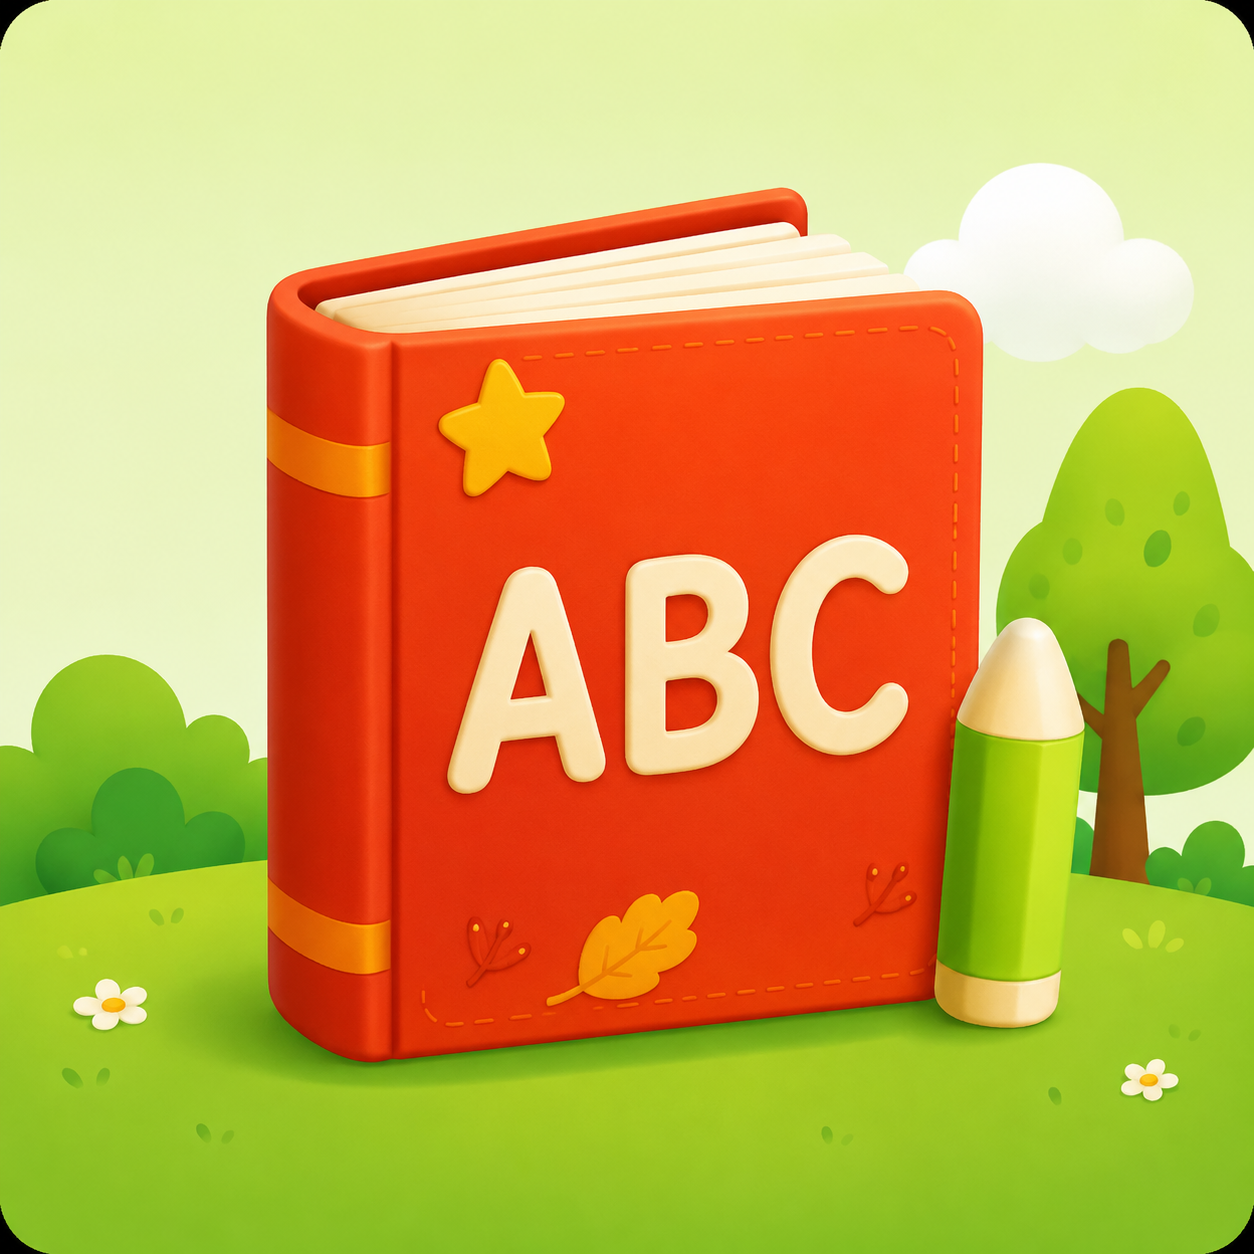
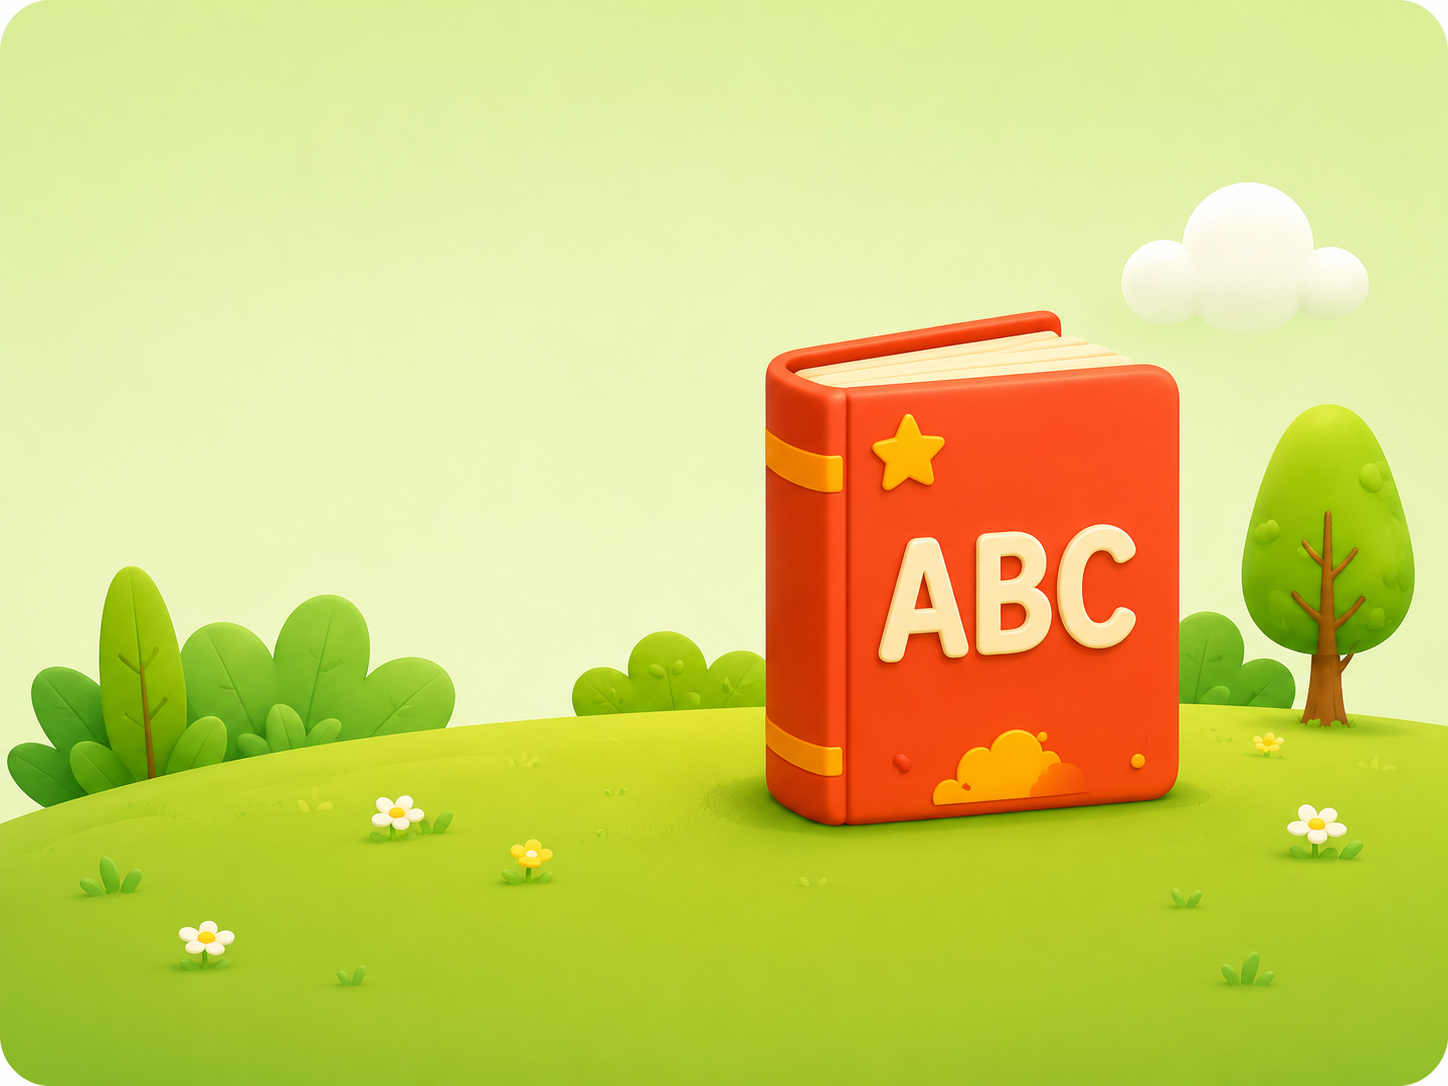
fix eng

diff --git a/src/pages/home/CbcAcademyHome.jsx b/src/pages/home/CbcAcademyHome.jsx
@@ -3,8 +3,7 @@ import owlWithBackpackTransparent from '../../assets/academies/cbc/grade-1/home/
 import actionContinueBook from '../../assets/academies/cbc/grade-1/home/action-continue-book.png';
 import actionReadOwlBook from '../../assets/academies/cbc/grade-1/home/action-read-owl-book.png';
 import actionPracticeTarget from '../../assets/academies/cbc/grade-1/home/action-practice-target.png';
-//import subjectEnglishAbcBookNoBg from '../../assets/academies/cbc/grade-1/home/subject-english-abc-book-no-bg.png';
-import subjectEnglishAbcBookNoBg from '../../assets/academies/cbc/grade-1/home/subject-english-abc-book.png';
+import subjectEnglishAbcBook from '../../assets/academies/cbc/grade-1/home/subject-english-abc-book.png';
 import '../../styles/cbc-academy-home.css';
 
 const emptyProgress = {
@@ -21,7 +20,7 @@ const SUBJECT_META = [
     cardClass: 'cbc-home-subject-card--english',
     lessonClass: 'cbc-home-lesson-card--english',
     visualClass: 'cbc-home-abc-book',
-    imageSrc: subjectEnglishAbcBookNoBg,
+    backgroundSrc: subjectEnglishAbcBook,
     lessonIcon: '📗',
     lessonMeta: 'English • 5 min'
   },
@@ -144,14 +143,16 @@ function getTodayLessons({ continueSection, focusChildren, learningAreas }) {
   const seen = new Set();
   const candidates = [continueSection, ...focusChildren, ...learningAreas].filter(Boolean);
 
-  return candidates.filter((section) => {
-    const key = section.id || section.href || section.title;
+  return candidates
+    .filter((section) => {
+      const key = section.id || section.href || section.title;
 
-    if (!key || seen.has(key)) return false;
+      if (!key || seen.has(key)) return false;
 
-    seen.add(key);
-    return true;
-  }).slice(0, 4);
+      seen.add(key);
+      return true;
+    })
+    .slice(0, 4);
 }
 
 function CbcOwlMascot() {
@@ -169,19 +170,19 @@ function CbcOwlMascot() {
 }
 
 function CbcActionCard({ to, title, description, imageSrc, variant }) {
-    return (
-      <Link to={to} className={`cbc-home-action-card ${variant}`.trim()}>
-        <span className="cbc-home-action-card-shine" aria-hidden="true" />
-  
-        <CbcActionIllustration src={imageSrc} />
-  
-        <span className="cbc-home-action-card-copy-wrap">
-          <span className="cbc-home-action-title">{title}</span>
-          <span className="cbc-home-action-copy">{description}</span>
-        </span>
-      </Link>
-    );
-  }
+  return (
+    <Link to={to} className={`cbc-home-action-card ${variant}`.trim()}>
+      <span className="cbc-home-action-card-shine" aria-hidden="true" />
+
+      <CbcActionIllustration src={imageSrc} />
+
+      <span className="cbc-home-action-card-copy-wrap">
+        <span className="cbc-home-action-title">{title}</span>
+        <span className="cbc-home-action-copy">{description}</span>
+      </span>
+    </Link>
+  );
+}
 
 function CbcStarsCard({ progress }) {
   const safeProgress = progress || emptyProgress;
@@ -220,7 +221,17 @@ function CbcLearningAreaCard({ section, index }) {
       to={section.href || '/categories'}
       className={`cbc-home-subject-card ${meta.cardClass}`.trim()}
     >
-      <div>
+      {meta.backgroundSrc ? (
+        <img
+          className="cbc-home-subject-bg-image"
+          src={meta.backgroundSrc}
+          alt=""
+          draggable="false"
+          loading="eager"
+        />
+      ) : null}
+
+      <div className="cbc-home-subject-card__copy-block">
         <div className="cbc-home-subject-card__title">
           {getFriendlySubjectTitle(section, index)}
         </div>
@@ -230,21 +241,23 @@ function CbcLearningAreaCard({ section, index }) {
         </div>
       </div>
 
-      <div className={visualClassName} aria-hidden="true">
-        {meta.imageSrc ? (
-          <img
-            className="cbc-home-subject-image"
-            src={meta.imageSrc}
-            alt=""
-            draggable="false"
-            loading="eager"
-          />
-        ) : null}
+      {!meta.backgroundSrc ? (
+        <div className={visualClassName} aria-hidden="true">
+          {meta.imageSrc ? (
+            <img
+              className="cbc-home-subject-image"
+              src={meta.imageSrc}
+              alt=""
+              draggable="false"
+              loading="eager"
+            />
+          ) : null}
 
-        {!meta.imageSrc && meta.visualClass === 'cbc-home-kiswahili-bubbles' ? (
-          <span className="cbc-home-kiswahili-bird">🐦</span>
-        ) : null}
-      </div>
+          {!meta.imageSrc && meta.visualClass === 'cbc-home-kiswahili-bubbles' ? (
+            <span className="cbc-home-kiswahili-bird">🐦</span>
+          ) : null}
+        </div>
+      ) : null}
 
       <span className="cbc-home-start-learning">
         Start learning <span aria-hidden="true">›</span>
@@ -293,7 +306,7 @@ function CbcEmptyHome({ homeModel }) {
 
         <div className="cbc-home-hero-content">
           <p className="cbc-home-greeting">Hi there, young learner! 👋</p>
-          
+
           <h1 className="cbc-home-hero-title" id="cbc-home-title">
             Ready to <span>learn</span> today?
           </h1>
@@ -303,12 +316,12 @@ function CbcEmptyHome({ homeModel }) {
           </p>
 
           <div className="cbc-home-hero-actions" aria-label="Main learner actions">
-          <CbcActionCard
-            to={primaryAction.href}
-            title="Continue"
-            description="Start your first fun activity"
-            imageSrc={actionContinueBook}
-            variant="cbc-home-action-card--continue"
+            <CbcActionCard
+              to={primaryAction.href}
+              title="Continue"
+              description="Start your first fun activity"
+              imageSrc={actionContinueBook}
+              variant="cbc-home-action-card--continue"
             />
           </div>
         </div>
@@ -375,28 +388,28 @@ export default function CbcAcademyHome({ homeModel, randomCount = 0 }) {
           </p>
 
           <div className="cbc-home-hero-actions" aria-label="Main learner actions">
-          <CbcActionCard
-            to={continueHref}
-            title="Continue"
-            description={continueSection?.summary || 'Pick up where you left off'}
-            imageSrc={actionContinueBook}
-            variant="cbc-home-action-card--continue"
+            <CbcActionCard
+              to={continueHref}
+              title="Continue"
+              description={continueSection?.summary || 'Pick up where you left off'}
+              imageSrc={actionContinueBook}
+              variant="cbc-home-action-card--continue"
             />
 
             <CbcActionCard
-            to={readWithMeHref}
-            title="Read with me"
-            description="Listen and read fun stories"
-            imageSrc={actionReadOwlBook}
-            variant="cbc-home-action-card--read"
+              to={readWithMeHref}
+              title="Read with me"
+              description="Listen and read fun stories"
+              imageSrc={actionReadOwlBook}
+              variant="cbc-home-action-card--read"
             />
 
             <CbcActionCard
-            to="/random"
-            title="Practice"
-            description={randomCount > 0 ? `${randomCount} questions and activities` : 'Try questions and activities'}
-            imageSrc={actionPracticeTarget}
-            variant="cbc-home-action-card--practice"
+              to="/random"
+              title="Practice"
+              description={randomCount > 0 ? `${randomCount} questions and activities` : 'Try questions and activities'}
+              imageSrc={actionPracticeTarget}
+              variant="cbc-home-action-card--practice"
             />
           </div>
         </div>

diff --git a/src/styles/cbc-home/05-learning-areas.css b/src/styles/cbc-home/05-learning-areas.css
@@ -93,6 +93,7 @@
     transition:
       transform 170ms ease,
       box-shadow 170ms ease;
+    isolation: isolate;
   }
   
   .cbc-home-subject-card:hover,
@@ -105,11 +106,29 @@
     position: absolute;
     inset: auto 0 0;
     height: 72px;
+    z-index: 1;
     background:
       radial-gradient(ellipse at 5% 100%, rgba(112, 195, 38, 0.7) 0 28%, transparent 29%),
       radial-gradient(ellipse at 22% 100%, rgba(142, 212, 55, 0.8) 0 30%, transparent 31%),
       radial-gradient(ellipse at 86% 100%, rgba(103, 190, 49, 0.58) 0 28%, transparent 29%);
     opacity: 0.85;
+  }
+  
+  .cbc-home-subject-bg-image {
+    position: absolute;
+    inset: 0;
+    z-index: 0;
+    width: 100%;
+    height: 100%;
+    object-fit: cover;
+    object-position: center 56%;
+    user-select: none;
+    pointer-events: none;
+  }
+  
+  .cbc-home-subject-card__copy-block {
+    position: relative;
+    z-index: 4;
   }
   
   .cbc-home-subject-card__title {
@@ -148,15 +167,6 @@
     pointer-events: none;
   }
   
-  /* English now uses a real PNG instead of CSS-drawn art */
-  .cbc-home-subject-card--english .cbc-home-subject-visual {
-    right: 42px;
-    top: 54px;
-    width: 138px;
-    height: 118px;
-    z-index: 2;
-  }
-  
   .cbc-home-subject-image {
     display: block;
     width: 100%;
@@ -192,12 +202,77 @@
   
   .cbc-home-start-learning span {
     display: grid;
-    width: 27px;
-    height: 27px;
+    width: 25px;
+    height: 25px;
+    margin-left: auto;
     place-items: center;
     border-radius: 50%;
     color: #ffffff;
     background: currentColor;
+    font-size: 21px;
+    line-height: 1;
+  }
+  
+  .cbc-home-subject-card--english {
+    color: #159946;
+    background: #f3ffe6;
+  }
+  
+  .cbc-home-subject-card--english::before {
+    content: none;
+  }
+  
+  .cbc-home-subject-card--english::after {
+    content: "";
+    position: absolute;
+    inset: 0;
+    z-index: 1;
+    pointer-events: none;
+    background: linear-gradient(
+      90deg,
+      rgba(245, 255, 235, 0.88) 0%,
+      rgba(245, 255, 235, 0.64) 29%,
+      rgba(245, 255, 235, 0.2) 43%,
+      transparent 64%
+    );
+  }
+  
+  .cbc-home-subject-card--english .cbc-home-subject-bg-image {
+    object-position: center 48%;
+    transform: translateY(-10px) scale(1.03);
+    transform-origin: center;
+  }
+  
+  .cbc-home-subject-card--english .cbc-home-subject-card__copy-block {
+    position: relative;
+    z-index: 4;
+    max-width: 170px;
+  }
+  
+  .cbc-home-subject-card--english .cbc-home-subject-card__title {
+    color: #159946;
+    font-size: 21px;
+    line-height: 1.05;
+    letter-spacing: -0.025em;
+  }
+  
+  .cbc-home-subject-card--english .cbc-home-subject-card__copy {
+    max-width: 13ch;
+    margin-top: 8px;
+    color: #121a3f;
+    font-size: 13px;
+    line-height: 1.2;
+  }
+  
+  .cbc-home-subject-card--english .cbc-home-start-learning {
+    position: relative;
+    z-index: 4;
+    width: calc(100% - 28px);
+    min-height: 38px;
+    margin: auto auto 0;
+    padding: 0 10px 0 16px;
+    border-radius: 15px;
+    font-size: 14px;
   }
   
   .cbc-home-subject-card--math {
@@ -222,6 +297,10 @@
     background: rgba(22, 65, 40, 0.94);
   }
   
+  :root[data-theme="dark"] .cbc-home-subject-card--english {
+    background: #f3ffe6;
+  }
+  
   :root[data-theme="dark"] .cbc-home-subject-card--math {
     background: rgba(18, 50, 84, 0.94);
   }
@@ -243,7 +322,7 @@
      Setting position: relative would override the absolute positioning above.
   */
   
-  /* Disable the old CSS-drawn English book */
+  /* English uses a full-card background image now. Disable old CSS-drawn English art. */
   .cbc-home-abc-book::before,
   .cbc-home-abc-book::after {
     content: none;